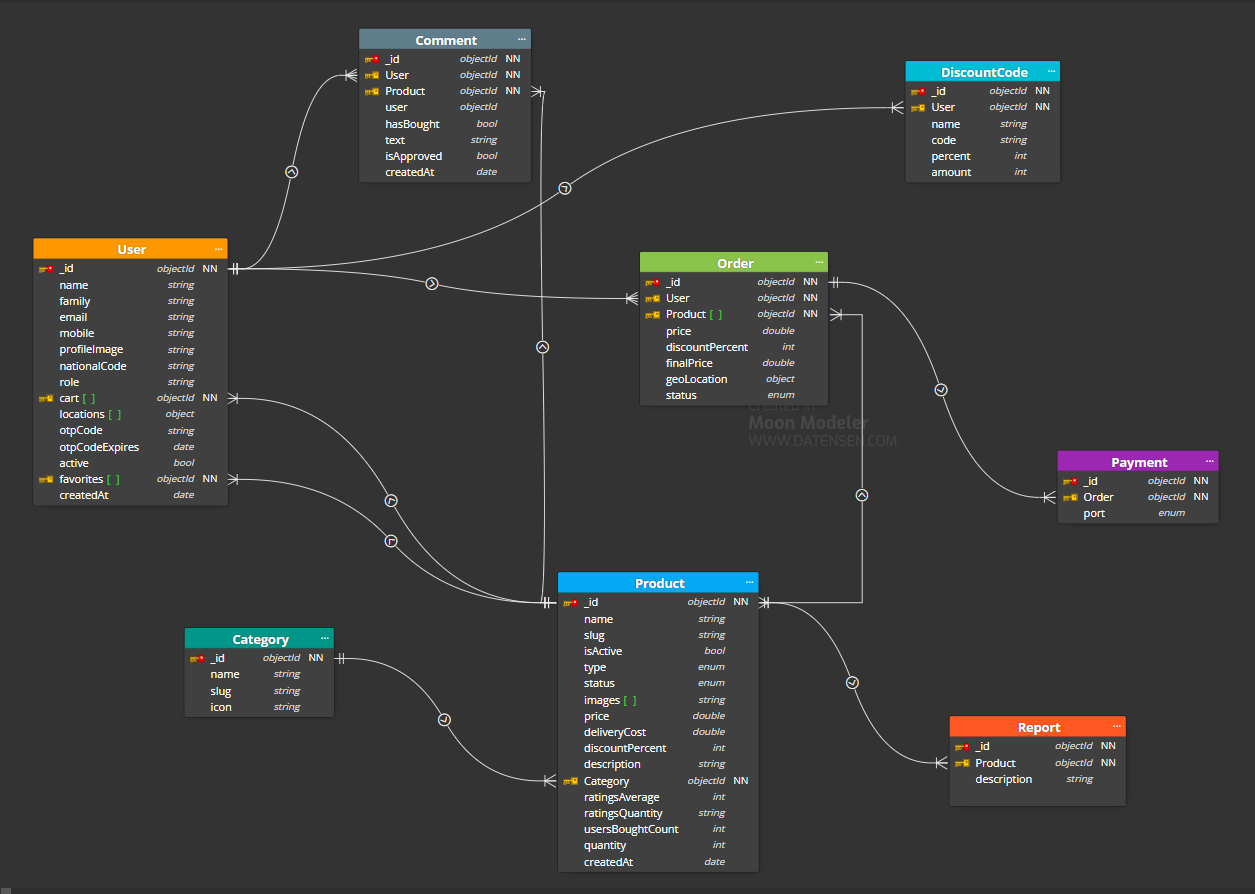
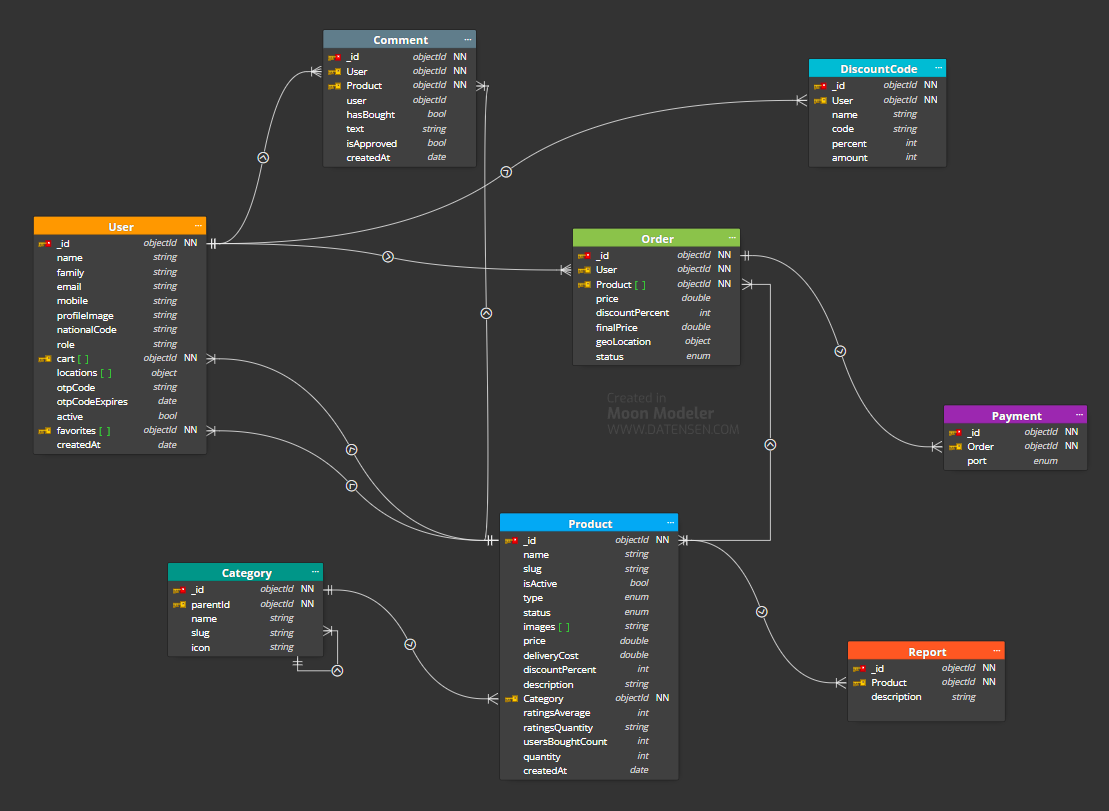
ADD parentId instead of Subcategories for add better

diff --git a/models/categoryModel.js b/models/categoryModel.js
@@ -6,13 +6,12 @@ const categorySchema = new mongoose.Schema({
     type: String,
     required: [true, 'پر کردن فیلد نام دسته بندی الزامی است'],
     trim: true,
+    unique: true,
   },
-  SubCategories: [
-    {
-      type: mongoose.Schema.ObjectId,
-      ref: 'Category',
-    },
-  ],
+  parentId: {
+    type: mongoose.Schema.ObjectId,
+    ref: 'Category',
+  },
   slug: String,
   icon: String,
 });
